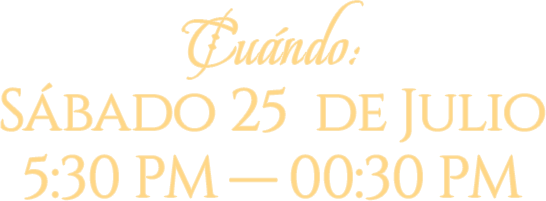
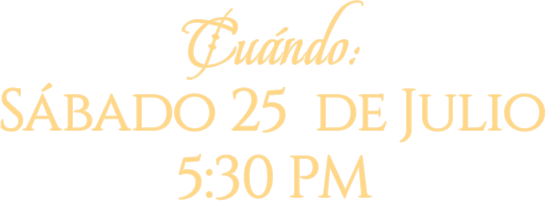
Actualiza assets mobile de la invitacion

Changed region(s): [[0.2491, 0.7463, 0.7784, 1.0], [0.0311, 0.7463, 0.2179, 1.0], [0.8095, 0.7463, 0.9652, 0.9851]]

diff --git a/index.html b/index.html
@@ -50,7 +50,10 @@
                 </div>
                 <img class="title-life" src="img/Title-3.png" alt="de vida" />
               </div>
-              <img class="hero-message" src="img/Body-Text.png" alt="Tu compañía es mi mejor obsequio en este día, ¡te espero!, Montse." />
+              <picture class="hero-message">
+                <source media="(max-width: 720px)" srcset="img/Body-Text-Cel.png" />
+                <img src="img/Body-Text.png" alt="Tu compañía es mi mejor obsequio en este día, ¡te espero!, Montse." />
+              </picture>
               <div class="mobile-chevron-hint" aria-hidden="true">
                 <span class="mobile-chevron"></span>
                 <span class="mobile-chevron"></span>

diff --git a/styles.css b/styles.css
@@ -109,7 +109,7 @@ img { display: block; max-width: 100%; }
 .title-number { width: 26%; margin-right: .8%; }
 .title-years { width: 67%; }
 .title-life { width: 92%; }
-.hero-message { width: 96%; margin-top: 4%; }
+.hero-message { display: block; width: 96%; margin-top: 4%; }
 .mobile-chevron-hint { display: none; }
 
 .event-details {